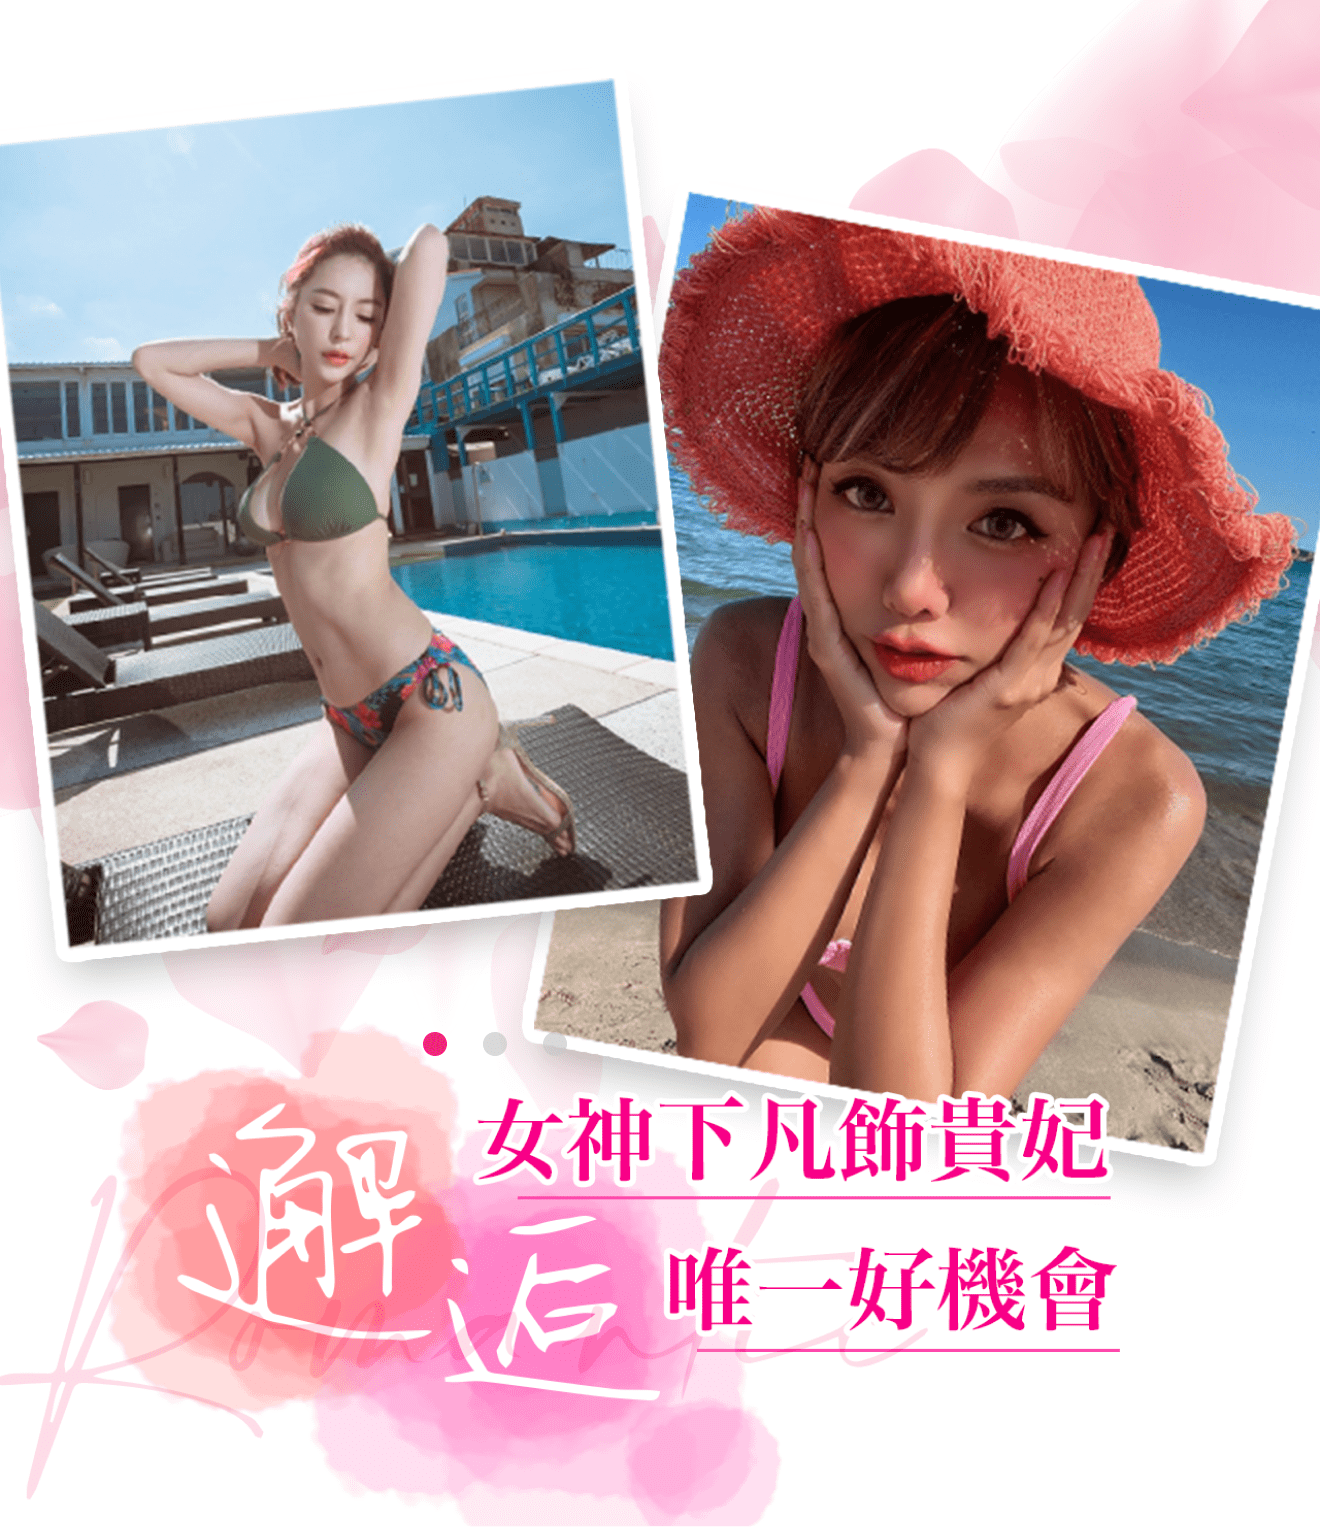
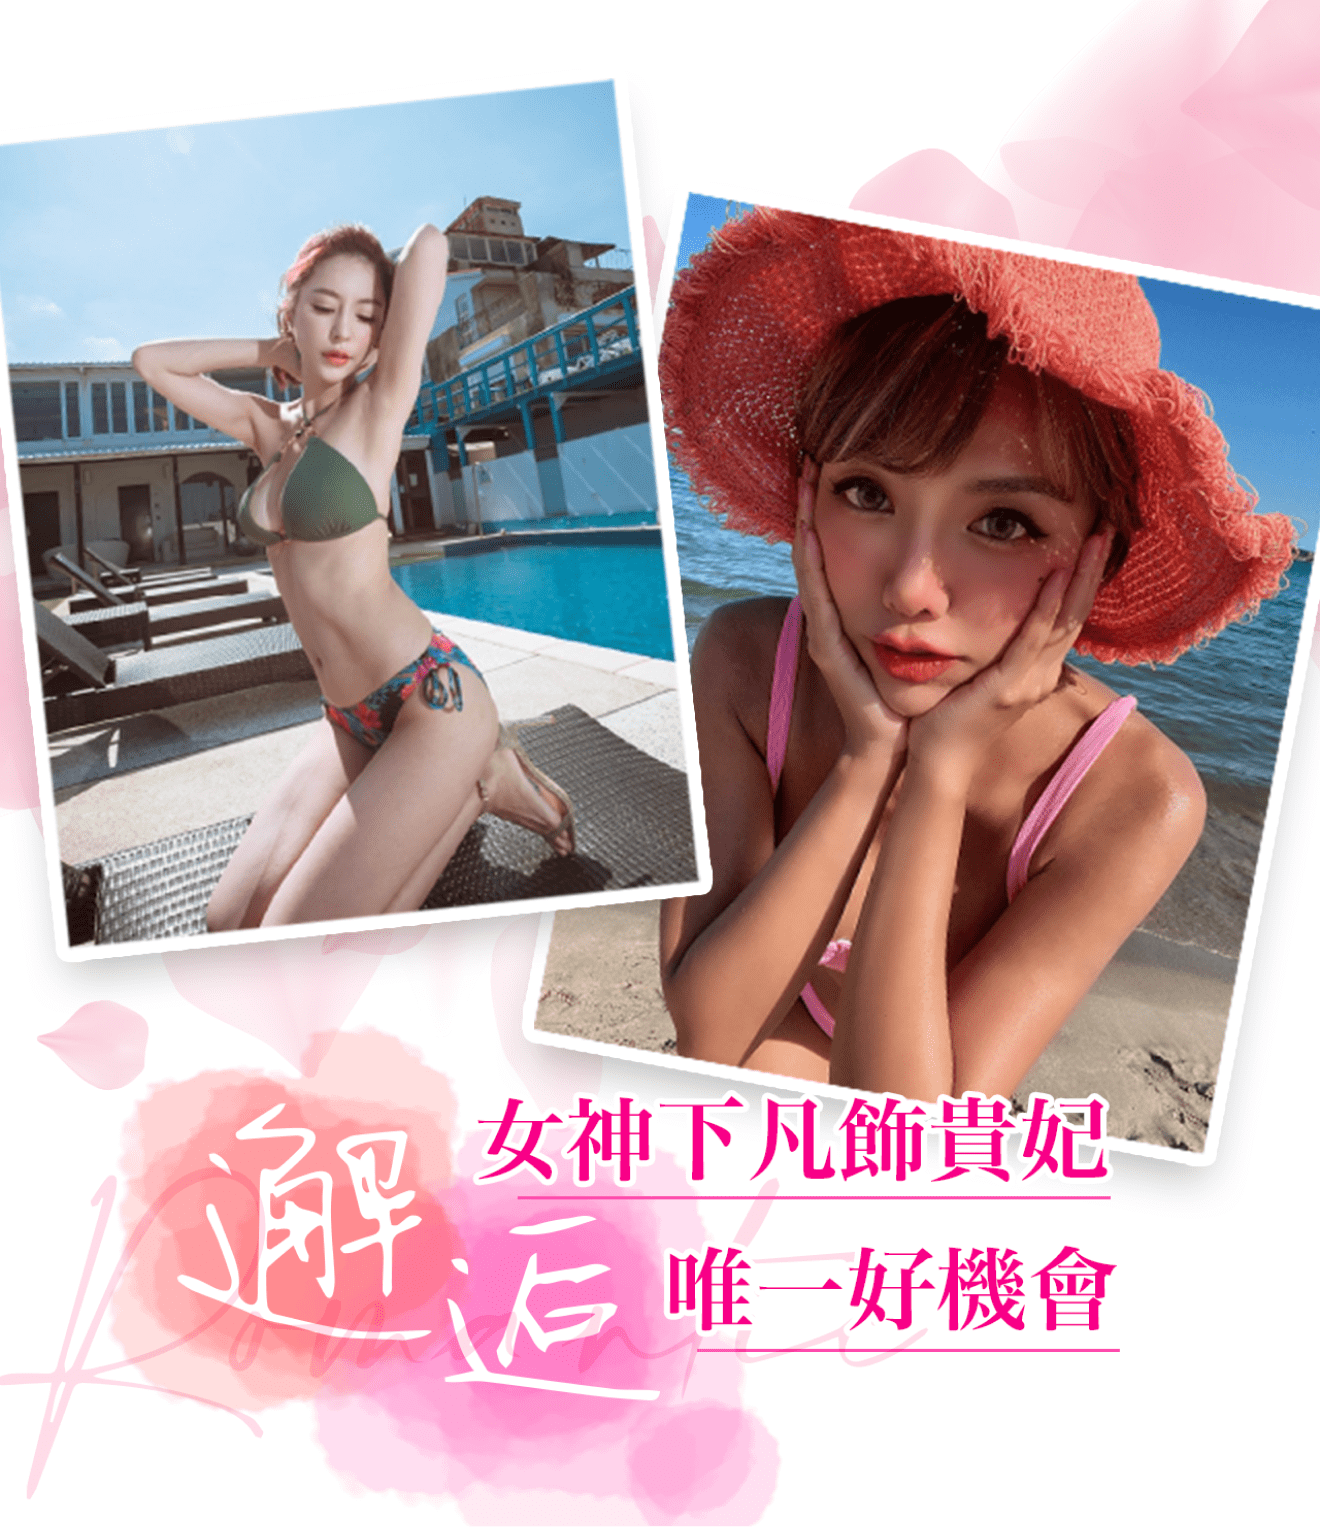
feat: finish SectionHero

diff --git a/components/home/SectionSwiper.vue b/components/home/SectionSwiper.vue
@@ -16,6 +16,14 @@ export default {
   components: {
     MySwiper
   },
+  head: {
+    link: [
+      {
+        rel: 'stylesheet',
+        href: '/assets/styles/swiper.css'
+      }
+    ]
+  },
   computed: {
     ...mapGetters(['isMobile']),
     banners () {
@@ -33,8 +41,8 @@ export default {
     },
     styleInfo () {
       return this.isMobile
-        ? { height: '100vh' }
-        : { height: '65vh' }
+        ? { height: '115vw' }
+        : { height: '34.73vw' }
     }
   }
 }

diff --git a/assets/styles/swiper.scss b/assets/styles/swiper.scss
@@ -1,0 +1,5 @@
+@import './variables.scss';
+
+.swiper-pagination-bullet-active {
+  background-color: $theme-primary-deep !important;
+}

diff --git a/assets/styles/all.scss b/assets/styles/all.scss
@@ -1,3 +1,4 @@
 @import './button.scss';
 @import './article.scss';
 @import './layout.scss';
+@import './swiper.scss';
